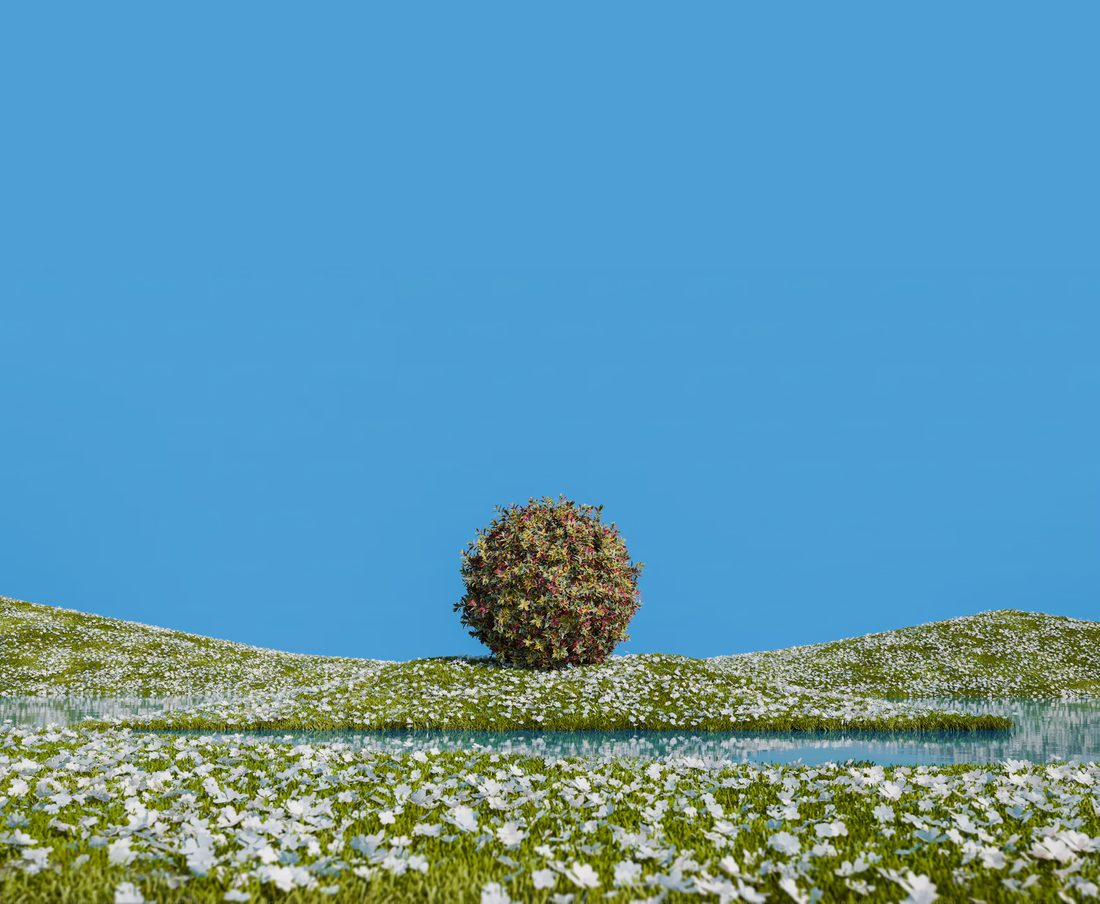
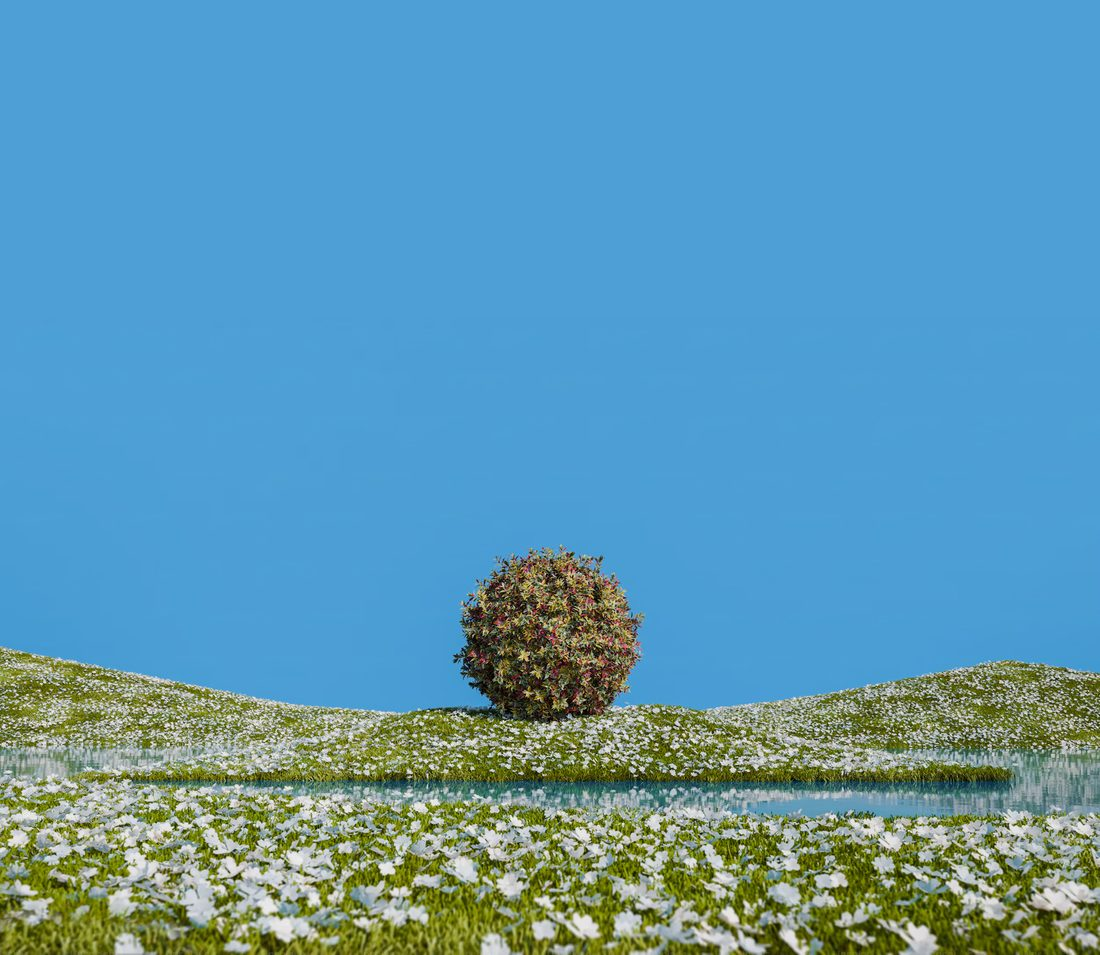
Landing hero: the bush stays visible under the words (lighter fog, smaller glow)
Claude-Session: https://claude.ai/code/session_01Fhy9fFWJZtEjei2HQYWVj3

Changed region(s): [[0.0, 0.5265, 1.0, 1.0]]

diff --git a/src/app/[lang]/page.tsx b/src/app/[lang]/page.tsx
@@ -32,14 +32,14 @@ export default async function Home() {
             />
           </Parallax>
           {/* soft light behind the words, so they read well on the sky */}
-          <div aria-hidden="true" className="absolute inset-x-0 top-0 -z-10 h-[85%] bg-[radial-gradient(ellipse_55%_60%_at_50%_42%,rgb(255_255_255/0.8),rgb(255_255_255/0.35)_55%,transparent_78%)]" />
+          <div aria-hidden="true" className="absolute inset-x-0 top-0 -z-10 h-[85%] bg-[radial-gradient(ellipse_50%_42%_at_50%_34%,rgb(255_255_255/0.75),rgb(255_255_255/0.3)_55%,transparent_80%)]" />
           {/* fog: the photo blurs and melts into the white page */}
           <div
             aria-hidden="true"
-            className="absolute inset-x-0 bottom-0 -z-10 h-[38%] backdrop-blur-[6px]"
+            className="absolute inset-x-0 bottom-0 -z-10 h-[20%] backdrop-blur-[6px]"
             style={{ WebkitMaskImage: "linear-gradient(to bottom, transparent, #000 55%)", maskImage: "linear-gradient(to bottom, transparent, #000 55%)" }}
           />
-          <div aria-hidden="true" className="absolute inset-x-0 bottom-0 -z-10 h-[42%] bg-gradient-to-b from-transparent via-white/70 to-white" />
+          <div aria-hidden="true" className="absolute inset-x-0 bottom-0 -z-10 h-[24%] bg-gradient-to-b from-transparent via-white/70 to-white" />
 
           <SiteHeader t={t} locale={locale} />
 
